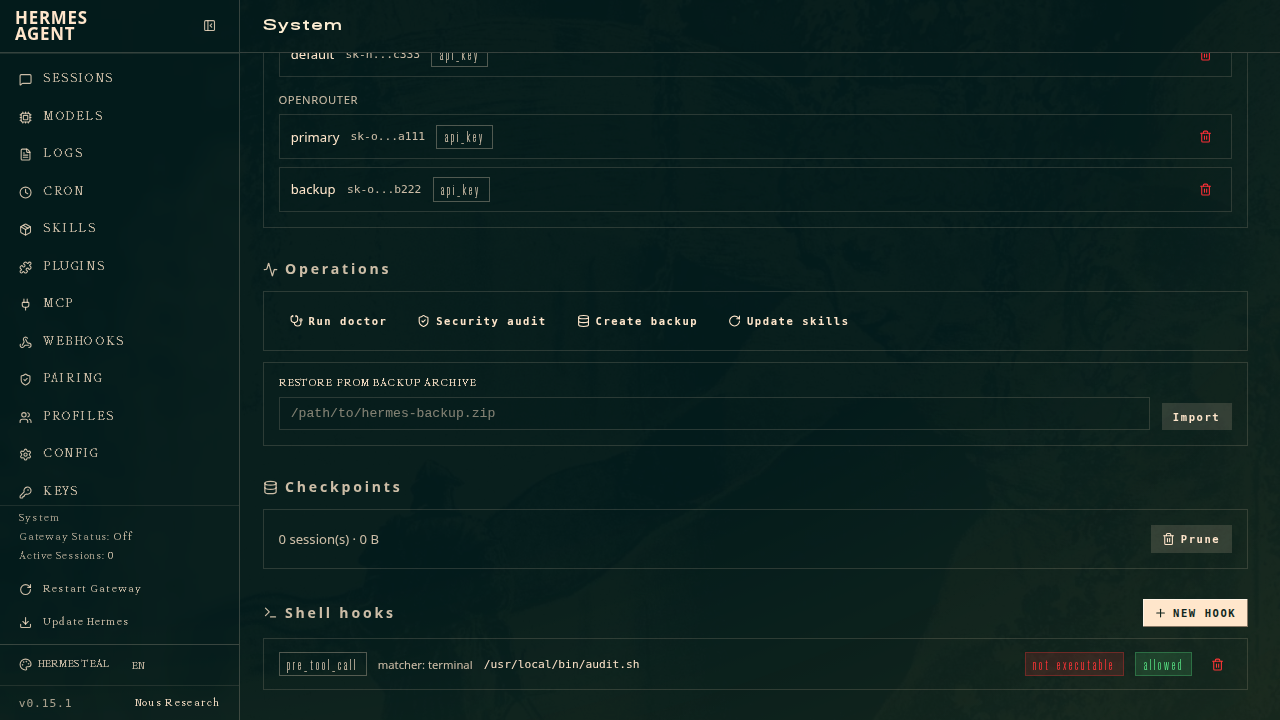
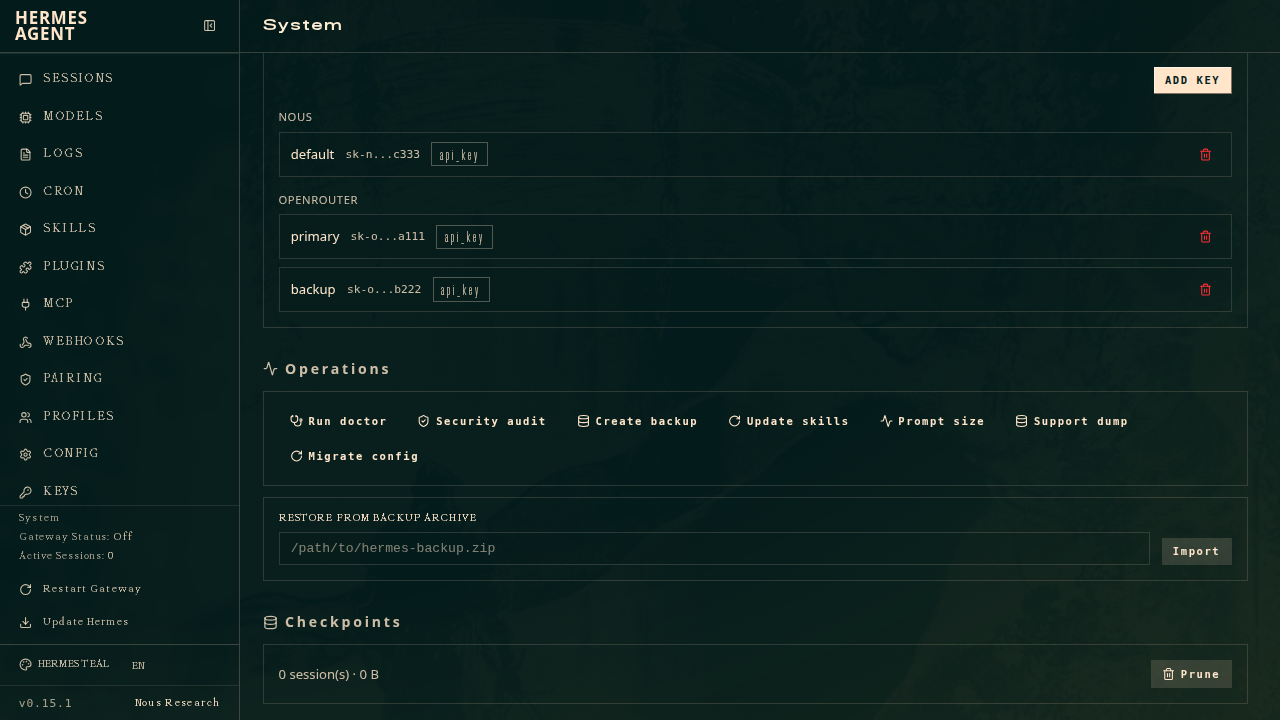
docs(dashboard): document curator, portal, and diagnostics + refresh System screenshots
Updates the System section for the Nous Portal status, Skill curator
controls, and the new prompt-size/dump/migrate operations; adds them to the
API table; refreshes the System screenshots (now showing Portal + Curator)
and adds a dedicated curator/gateway/memory capture.

diff --git a/website/docs/user-guide/features/web-dashboard.md b/website/docs/user-guide/features/web-dashboard.md
@@ -235,14 +235,18 @@ onboards Telegram/Discord/etc. users to a paired gateway. Full parity with
 A consolidated administration panel for installation-wide operations:
 
 - **Host** — live system stats: OS / kernel, architecture, hostname, Python and Hermes versions, CPU core count + utilization, memory, disk usage of the Hermes home, uptime, and load average. (CPU/memory/disk come from `psutil` when installed; identity fields are always shown.)
+- **Nous Portal** — login status, the active inference provider, and the Tool Gateway routing table (which tools run via the Portal vs. locally), with a link to manage your subscription. Read-only mirror of `hermes portal`.
+- **Skill curator** — the background skill-maintenance status (active / paused, interval, last run) with pause/resume and a run-now button. Mirrors `hermes curator`.
 - **Gateway** — start, stop, and restart the messaging gateway, with live status (running/stopped, PID, state)
 - **Memory** — pick the external memory provider (or built-in only), and reset the built-in `MEMORY.md` / `USER.md` stores
 - **Credential pool** — add and remove the rotating API keys the agent round-robins through (per provider). Keys are redacted in the list; the raw value only ever reaches the agent.
-- **Operations** — run `doctor`, a security audit, create a backup, restore from a backup archive, or update skills. Each spawns a background action whose live log streams into the page.
+- **Operations** — run `doctor`, a security audit, create a backup, restore from a backup archive, update skills, show the system-prompt size breakdown, generate a support dump, or migrate config for retired settings. Each spawns a background action whose live log streams into the page.
 - **Checkpoints** — see the `/rollback` shadow store size and prune it
 - **Shell hooks** — list configured hooks with their consent + executable status, **create** a hook (event, command, matcher, timeout, with an opt-in consent grant), and remove one. Hooks run arbitrary commands, so the create form carries a security warning and the hook only fires after consent is granted.
 
-![System admin page — host stats and gateway lifecycle](/img/dashboard/admin-system-top.png)
+![System admin page — host stats and Nous Portal status](/img/dashboard/admin-system-top.png)
+
+![System admin page — skill curator, gateway, memory, and credential pool](/img/dashboard/admin-system-curator.png)
 
 ![System admin page — operations, checkpoints, and shell hooks](/img/dashboard/admin-system-ops.png)
 
@@ -398,6 +402,9 @@ same auth gate as the rest of `/api/`.
 | `GET /api/ops/checkpoints` · `POST .../prune` | Inspect / prune the `/rollback` store |
 | `POST /api/ops/hooks` · `DELETE /api/ops/hooks` | Create / remove a shell hook (consent-gated) |
 | `GET /api/system/stats` | Host stats — OS, CPU, memory, disk, uptime |
+| `GET /api/curator` · `PUT .../paused` · `POST .../run` | Skill-curator status + pause/resume + run |
+| `GET /api/portal` | Nous Portal auth + Tool Gateway routing (read-only) |
+| `POST /api/ops/prompt-size` · `/dump` · `/config-migrate` | Diagnostics (backgrounded) |
 | `PUT /api/webhooks/{name}/enabled` | Enable / disable a webhook route |
 | `POST /api/skills/hub/install` · `/uninstall` · `/update` | Skills hub actions (backgrounded) |
 
